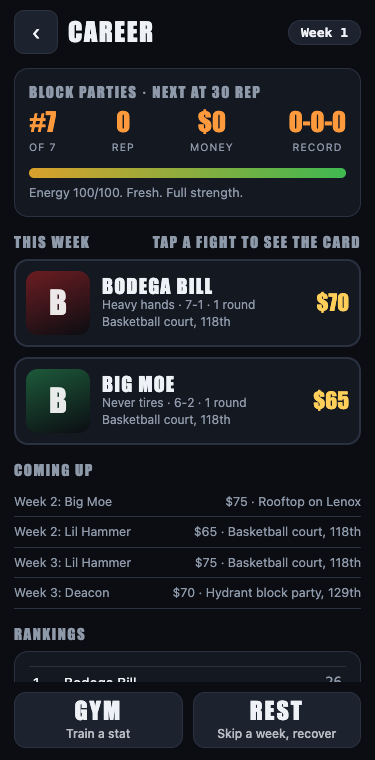
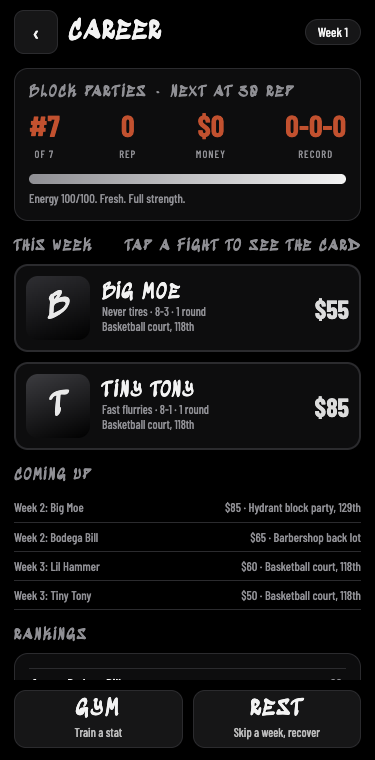
Sync: style pass follow-up (BOX-13)

diff --git a/index.html b/index.html
@@ -3,7 +3,7 @@
 <head>
 <meta charset="utf-8">
 <meta name="viewport" content="width=device-width, initial-scale=1, viewport-fit=cover">
-<meta name="theme-color" content="#0b0d12">
+<meta name="theme-color" content="#000">
 <meta name="apple-mobile-web-app-capable" content="yes">
 <title>Bring The Ruckus</title>
 <!--
@@ -145,10 +145,10 @@
 
   /* ── Upgrade ── */
   .points-big { text-align: center; padding: 6px 0 14px; }
-  .points-big b { display: block; font: 400 64px/1 var(--display); color: var(--accent); }
+  .points-big b { display: block; font: 700 68px/1 var(--body); color: var(--accent); }
   .urow { display: grid; grid-template-columns: 1fr auto; gap: 4px 12px; align-items: center; padding: 12px 0; border-bottom: 1px solid var(--line); }
   .urow .nm { font: 400 20px var(--display); letter-spacing: .08em; text-transform: uppercase; }
-  .urow .nm span { font: 600 18px var(--mono); color: var(--accent); margin-left: 8px; }
+  .urow .nm span { font: 700 20px var(--body); color: var(--accent); margin-left: 8px; }
   .urow .fx { grid-column: 1; font-size: 12px; color: var(--muted); }
   .urow .bar { grid-column: 1; }
   .urow .btns { grid-column: 2; grid-row: 1 / span 3; display: flex; gap: 8px; }
@@ -178,7 +178,7 @@
   .side { display: grid; gap: 4px; }
   .side.blue { text-align: right; }
   .side .nm { font: 400 19px/1 var(--display); letter-spacing: .07em; text-transform: uppercase; text-shadow: 0 2px 4px #000; white-space: nowrap; overflow: hidden; text-overflow: ellipsis; }
-  .side.red .nm { color: #ff7478; } .side.blue .nm { color: #6fb0ff; }
+  .side.red .nm { color: #f3f3f3; } .side.blue .nm { color: #b4b4b9; }
   .vit { display: flex; align-items: center; gap: 7px; }
   .side.blue .vit { flex-direction: row-reverse; }
   .vit .bars { flex: 1; min-width: 0; display: grid; gap: 4px; }
@@ -193,7 +193,7 @@
   .dmg-grid .who { font: 400 15px var(--display); letter-spacing: .1em; text-transform: uppercase; margin-bottom: 6px; }
   .dmg-fig { display: flex; align-items: center; justify-content: center; gap: 12px; }
   .dmg-list { display: grid; gap: 5px; text-align: left; font-size: 12.5px; }
-  .dmg-list b { font: 400 17px/1 var(--display); color: var(--accent); margin-right: 4px; }
+  .dmg-list b { font: 700 20px/1 var(--body); color: var(--accent); margin-right: 4px; }
   .dmg-list span { display: block; font-size: 10.5px; letter-spacing: .1em; text-transform: uppercase; color: var(--muted); }
   .dmg-note { margin: 10px 0 0; font-size: 11.5px; color: var(--muted); }
   .meter { position: relative; height: 12px; background: rgba(0,0,0,.6); border: 1px solid rgba(255,255,255,.25); border-radius: 3px; overflow: hidden; transform: skewX(-14deg); }
@@ -228,20 +228,20 @@
   #s-result .scroll { padding-top: calc(var(--top) + 18px); text-align: center; }
   .verdict { font: 400 clamp(56px, 18vw, 92px)/.95 var(--display); letter-spacing: .04em; text-transform: uppercase; margin: 0; opacity: 0; animation: pop .55s cubic-bezier(.2,1.4,.4,1) forwards; animation-delay: var(--vd, 0s); }
   .verdict.w { color: var(--accent-2); text-shadow: 0 0 30px rgba(194,81,47,.5), 3px 4px 0 #000; }
-  .verdict.l { color: #ff6b6b; text-shadow: 3px 4px 0 #000; } .verdict.d { color: #c7d0de; text-shadow: 3px 4px 0 #000; }
+  .verdict.l { color: var(--accent); text-shadow: 3px 4px 0 #000; } .verdict.d { color: #c7d0de; text-shadow: 3px 4px 0 #000; }
   .method { font: 600 14px var(--body); letter-spacing: .16em; text-transform: uppercase; color: var(--muted); margin: 6px 0 16px; opacity: 0; animation: fade .4s forwards; animation-delay: var(--vd, 0s); }
   @keyframes pop { from { opacity: 0; transform: scale(1.7) rotate(-4deg); } to { opacity: 1; transform: none; } }
   @keyframes fade { to { opacity: 1; } }
   .cardtbl { width: 100%; border-collapse: collapse; font: 600 16px var(--mono); }
   .cardtbl th { font: 600 11px var(--body); letter-spacing: .1em; text-transform: uppercase; color: var(--muted); padding-bottom: 6px; }
-  .cardtbl th.r { color: #ff7478; } .cardtbl th.b { color: #6fb0ff; }
+  .cardtbl th.r { color: #f3f3f3; } .cardtbl th.b { color: #a4a4a9; }
   .cardtbl td { padding: 6px 0; border-top: 1px solid var(--line); opacity: 0; animation: fade .35s forwards; animation-delay: calc(var(--i) * .55s); }
   .cardtbl tr.tot td { font-size: 20px; border-top: 2px solid var(--muted); animation-delay: calc(var(--i) * .55s + .3s); }
   .stat2 { display: grid; grid-template-columns: 1fr auto 1fr; gap: 6px 10px; font-size: 14px; align-items: center; }
   .stat2 b { font: 600 15px var(--mono); } .stat2 span:nth-child(3n+2) { color: var(--muted); font-size: 11px; letter-spacing: .1em; text-transform: uppercase; }
   .stat2 span:nth-child(3n+1) { text-align: right; } .stat2 span:nth-child(3n) { text-align: left; }
   .reward { display: flex; justify-content: space-around; text-align: center; }
-  .reward b { display: block; font: 400 34px/1 var(--display); color: var(--accent); }
+  .reward b { display: block; font: 700 38px/1 var(--body); color: var(--accent); }
   .reward span { font-size: 11px; letter-spacing: .1em; text-transform: uppercase; color: var(--muted); }
   .unlock { background: linear-gradient(90deg, #2a1c0e, #1c222e); border: 1px solid var(--accent); border-radius: 12px; padding: 10px 14px; margin-bottom: 8px; text-align: left; }
   .unlock b { color: var(--accent); font: 400 13px var(--display); letter-spacing: .12em; text-transform: uppercase; display: block; }
@@ -249,17 +249,17 @@
 
   /* ── Career ── */
   .stat-line { display: flex; justify-content: space-between; gap: 8px; text-align: center; }
-  .stat-line b { display: block; font: 400 26px/1 var(--display); color: var(--accent); }
+  .stat-line b { display: block; font: 700 30px/1 var(--body); color: var(--accent); }
   .stat-line span { font-size: 10.5px; letter-spacing: .1em; text-transform: uppercase; color: var(--muted); }
   .energy { height: 10px; border-radius: 5px; background: var(--panel-2); overflow: hidden; margin: 12px 0 6px; }
-  .energy i { display: block; height: 100%; background: linear-gradient(90deg, #d9a12b, #3fb950); }
+  .energy i { display: block; height: 100%; background: linear-gradient(90deg, #8f8f94, #f3f3f3); }
   .cond { font-size: 12.5px; color: var(--muted); } .cond.bad { color: #ff9a7a; }
   .week-h { display: flex; justify-content: space-between; align-items: baseline; margin: 16px 0 8px; font: 400 15px var(--display); letter-spacing: .1em; text-transform: uppercase; color: var(--muted); }
   .offer { display: grid; grid-template-columns: 64px 1fr auto; gap: 12px; align-items: center; width: 100%; text-align: left; padding: 10px; margin-bottom: 10px; background: var(--panel); border: 2px solid var(--line); border-radius: 14px; min-height: 84px; }
   .offer .avatar { width: 64px; height: 64px; font-size: 32px; }
   .offer .nm { font: 400 20px/1.1 var(--display); letter-spacing: .06em; text-transform: uppercase; }
   .offer .meta { font-size: 12px; color: var(--muted); }
-  .offer .purse { font: 400 22px var(--display); color: var(--accent-2); text-align: right; }
+  .offer .purse { font: 700 26px var(--body); color: var(--accent-2); text-align: right; }
   .offer.rival { border-color: var(--red); }
   .tagpill { display: inline-block; font: 700 9px var(--body); letter-spacing: .1em; padding: 2px 7px; border-radius: 999px; background: var(--red); color: #fff; margin-left: 6px; vertical-align: middle; text-transform: uppercase; }
   .tagpill.gold { background: var(--accent); color: #1b1004; }
@@ -276,9 +276,9 @@
   .poster .avatar { width: min(34vw, 130px); height: min(34vw, 130px); margin: 0 auto 8px; font-size: 56px; }
   .poster .nm { font: 400 22px/1.1 var(--display); letter-spacing: .05em; text-transform: uppercase; }
   .poster .rec { font: 600 13px var(--mono); color: var(--muted); }
-  .poster .purse-big { font: 400 54px/1 var(--display); color: var(--accent-2); margin: 18px 0 2px; }
+  .poster .purse-big { font: 700 64px/1 var(--body); color: var(--accent-2); margin: 18px 0 2px; }
   .drill-bar { position: relative; height: 64px; border-radius: 12px; border: 2px solid var(--line); overflow: hidden; margin: 14px 0;
-    background: linear-gradient(90deg, #2b1a1a 0, #2b1a1a 15%, #3a3417 15%, #3a3417 32.5%, #6b5a1d 32.5%, #6b5a1d 44%, #d9a12b 44%, #d9a12b 56%, #6b5a1d 56%, #6b5a1d 67.5%, #3a3417 67.5%, #3a3417 85%, #2b1a1a 85%); }
+    background: linear-gradient(90deg, #2b1a1a 0, #2b1a1a 15%, #3a3417 15%, #3a3417 32.5%, #3c3c40 32.5%, #3c3c40 44%, #d9a12b 44%, #d9a12b 56%, #3c3c40 56%, #3c3c40 67.5%, #3a3417 67.5%, #3a3417 85%, #2b1a1a 85%); }
   .drill-bar .mk { position: absolute; top: 0; bottom: 0; width: 6px; margin-left: -3px; background: #fff; box-shadow: 0 0 10px #fff; }
   .bag { width: 74px; height: 130px; margin: 6px auto 0; border-radius: 22px; background: linear-gradient(90deg, #5b1d1d, #a73535 45%, #5b1d1d); border: 2px solid #2a0d0d; position: relative; transform-origin: 50% -30px; }
   .bag::before { content: ''; position: absolute; left: 50%; top: -36px; width: 3px; height: 36px; background: #777; }
@@ -847,13 +847,13 @@ $('camp-reset').onclick = () => { state.pending = null; renderUpgrade(); };
 // ─── Opponents ──────────────────────────────────────────────────────────────
 
 const ARCHETYPES = {
-  slugger:    { name: 'Iron Mauler',   style: 'Heavy hands, slow feet. One shot changes the night.', stats: { speed: 38, power: 82, stamina: 55, ringIQ: 42 }, tint: '#6b1d22',
+  slugger:    { name: 'Iron Mauler',   style: 'Heavy hands, slow feet. One shot changes the night.', stats: { speed: 38, power: 82, stamina: 55, ringIQ: 42 }, tint: '#4a4a4e',
     look: { topStyle: 'tank', top: '#16171a', jeans: '#1d1e22', boots: 'timbs', cap: null, chain: true, wraps: '#16171a', skin: 'deep' } },
-  speedster:  { name: 'Quicksilver',   style: 'Flurries from every angle. Hard to catch.', stats: { speed: 84, power: 40, stamina: 60, ringIQ: 55 }, tint: '#6b5a1d',
+  speedster:  { name: 'Quicksilver',   style: 'Flurries from every angle. Hard to catch.', stats: { speed: 84, power: 40, stamina: 60, ringIQ: 55 }, tint: '#3c3c40',
     look: { topStyle: 'tee', top: '#c9a227', jeans: '#2f3b52', boots: 'sneakers', cap: '#16171a', capBackwards: false, chain: false, wraps: '#ecebe6', skin: 'medium' } },
-  technician: { name: 'The Professor', style: 'Reads you like a book and counters everything.', stats: { speed: 58, power: 50, stamina: 52, ringIQ: 82 }, tint: '#1d3a6b',
+  technician: { name: 'The Professor', style: 'Reads you like a book and counters everything.', stats: { speed: 58, power: 50, stamina: 52, ringIQ: 82 }, tint: '#58585d',
     look: { topStyle: 'hoodie', top: '#8a8f96', jeans: '#4f6b8f', boots: 'sneakers', cap: null, chain: false, wraps: '#2f6fd0', skin: 'light' } },
-  grinder:    { name: 'Diesel Dean',   style: 'Never tires. Wears you down in the late rounds.', stats: { speed: 48, power: 55, stamina: 85, ringIQ: 45 }, tint: '#1d5a3a',
+  grinder:    { name: 'Diesel Dean',   style: 'Never tires. Wears you down in the late rounds.', stats: { speed: 48, power: 55, stamina: 85, ringIQ: 45 }, tint: '#2f2f33',
     look: { topStyle: 'varsity', top: '#3d5a3a', sleeve: '#c9c6bf', jeans: '#2f3b52', boots: 'timbs', cap: '#3d5a3a', capBackwards: true, chain: true, wraps: '#d9a12b', skin: 'medium' } },
 };
 const opponentOf = (key) => (key === 'mirror'
@@ -869,7 +869,7 @@ function renderOpponents() {
       bar.firstChild.style.width = `${o.stats[s]}%`;
       return el('div', { className: 'mini' }, el('span', { textContent: STAT_LABEL[s] }), bar);
     });
-    const avatar = el('div', { className: 'avatar', style: `background:linear-gradient(160deg, ${o.tint}, #0b0d12)` }, o.name[0]);
+    const avatar = el('div', { className: 'avatar', style: `background:linear-gradient(160deg, ${o.tint}, #000)` }, o.name[0]);
     return el('button', { className: 'opp', type: 'button', ariaPressed: String(state.opp === k), onclick: () => { state.opp = k; sfx.click(); renderOpponents(); } },
       avatar,
       el('div', {}, el('div', { className: 'nm', textContent: o.name }), el('div', { className: 'style', textContent: o.style }), ...mini));
@@ -1167,8 +1167,8 @@ function damageCard(r) {
 // ─── Career ─────────────────────────────────────────────────────────────────
 
 const money = (n) => `$${n.toLocaleString('en-US')}`;
-const portrait = (o) => el('div', { className: 'avatar', style: `background:linear-gradient(160deg, ${LOOK_TINT[o.arch] ?? '#4a4a55'}, #0b0d12)` }, o.name[0]);
-const LOOK_TINT = { slugger: '#6b1d22', speedster: '#6b5a1d', technician: '#1d3a6b', grinder: '#1d5a3a' };
+const portrait = (o) => el('div', { className: 'avatar', style: `background:linear-gradient(160deg, ${LOOK_TINT[o.arch] ?? '#4a4a55'}, #000)` }, o.name[0]);
+const LOOK_TINT = { slugger: '#4a4a4e', speedster: '#3c3c40', technician: '#58585d', grinder: '#2f2f33' };
 const saveCareer = () => db.saveFighter(state.fighter).then(() => { state.hasSaved = true; });
 
 function offerButton(o) {
@@ -1241,7 +1241,7 @@ function renderCard() {
     el('div', { className: 'tier', textContent: `${o.tierName}${o.title ? ' · title fight' : ''}${o.rival ? ' · rematch' : ''}` }),
     el('div', { className: 'venue', textContent: `${o.venue} · ${o.rounds} round${o.rounds > 1 ? 's' : ''}` }),
     el('div', { className: 'vs' },
-      el('div', {}, el('div', { className: 'avatar', style: 'background:linear-gradient(160deg,#6b1d22,#0b0d12)' }, state.fighter.name[0]), el('div', { className: 'nm', textContent: state.fighter.name }), el('div', { className: 'rec', textContent: recordText(state.fighter.record) })),
+      el('div', {}, el('div', { className: 'avatar', style: 'background:linear-gradient(160deg,#3a2220,#000)' }, state.fighter.name[0]), el('div', { className: 'nm', textContent: state.fighter.name }), el('div', { className: 'rec', textContent: recordText(state.fighter.record) })),
       el('b', { textContent: 'VS' }),
       el('div', {}, portrait(o), el('div', { className: 'nm', textContent: o.name }), el('div', { className: 'rec', textContent: `${o.record.w}-${o.record.l}-0` }))),
     el('div', { className: 'purse-big', textContent: money(o.purse) }),

diff --git a/HANDOFF.md b/HANDOFF.md
@@ -334,3 +334,6 @@ User style direction applied to the whole UI. Sedgwick Ave Display (graffiti: lo
 ## Done (2026-10-04): damage on screen, BOX-9 first slice (Boxing UI Dev)
 The sim records only `target` ('head'/'body') and `outcome` per punch (the `ZONE` in `physics-engine.js` is the ropes zone), so no sim change: zones are derived from those. Landed head shots -> head, landed body shots -> body, blocked shots -> arms ("Blocked"); slips hit nothing. `flow.js`: `zoneOf`, `emptyDamage`, `recordDamage`, `zoneHeat` (pure, tested). `index.html`: `silhouette()` / `paintSilhouette()`; each fighter's HUD has a small figure beside the bars whose zones tint amber to red and pulse on each hit (listens to `impact`, never writes the sim); the result screen has a "Damage taken" card with a big figure and health points and shots per zone for both fighters. Tally is reset per fight and stored in `state.result.damage`. `npm test` 271 pass; `demo-e2e.mjs` clean (new `qa/game-7b-fight-damage-*.png`, `game-8-result-*.png`).
 - Not built yet from BOX-9: between-rounds stats screen, per-round breakdown, punches by type, AI corner timeline. **Untested**: night HUD by eye, real phone, reduced-motion.
+
+### Style pass follow-up (2026-10-04)
+Eyeballed hub, gym, fight card, corner and result at 375 px (career-e2e screenshots) and fixed leftovers: energy bar, archetype portrait tints, blue/red corner names and table headers now grey/white, all big numbers (purse, money, XP, record, damage) use Barlow Condensed bold instead of the graffiti face. Left as is: damage figure heat colours (functional). Still unchecked: real phone, Safari.
